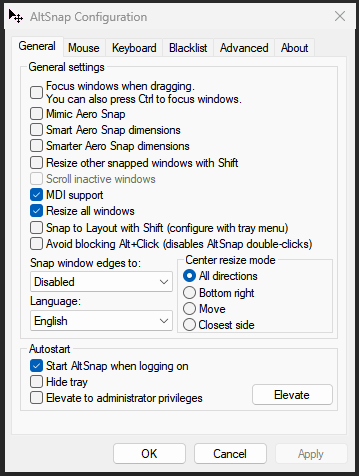
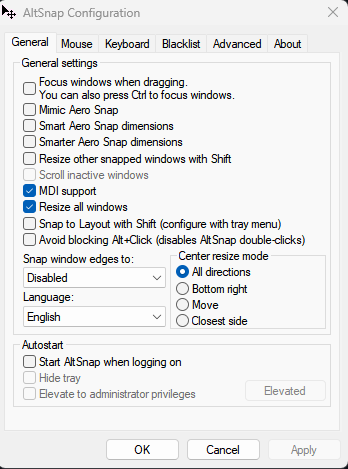
starting to dislike applications either not working because they don't have proper UAC access or required to be elevated to be used... so added pictures showing how to configure task scheduler to launch these applications (specifically flameshot & altsnap) upon user login.. now no more annoying popp

Changed region(s): [[0.0, 0.0, 1.0, 1.0], [0.6897, 0.806, 0.9195, 0.8657]]

diff --git a/flameshot_settings.md b/flameshot_settings.md
@@ -1,0 +1,9 @@
+![General](https://raw.githubusercontent.com/laosmidas/win-glaze-dots/refs/heads/main/ScreenShots_For_Guides/flameshot_screenshots/General.png)
+
+![Shortcuts](https://raw.githubusercontent.com/laosmidas/win-glaze-dots/refs/heads/main/ScreenShots_For_Guides/flameshot_screenshots/Shortcuts.png)
+
+![task_scheduler_#1](https://raw.githubusercontent.com/laosmidas/win-glaze-dots/refs/heads/main/ScreenShots_For_Guides/flameshot_screenshots/task_scheduler_#1.png)
+
+![task_scheduler_#2](https://raw.githubusercontent.com/laosmidas/win-glaze-dots/refs/heads/main/ScreenShots_For_Guides/flameshot_screenshots/task_scheduler_#2.png)
+
+![task_scheduler_#3](https://raw.githubusercontent.com/laosmidas/win-glaze-dots/refs/heads/main/ScreenShots_For_Guides/flameshot_screenshots/task_scheduler_#3.png)

diff --git a/altsnap_settings.md b/altsnap_settings.md
@@ -8,3 +8,9 @@
 
 ![Advanced](https://raw.githubusercontent.com/laosmidas/win-glaze-dots/refs/heads/main/ScreenShots_For_Guides/altsnap_screenshots/Advanced.png)
 
+![task_scheduler_#1](https://raw.githubusercontent.com/laosmidas/win-glaze-dots/refs/heads/main/ScreenShots_For_Guides/altsnap_screenshots/task_scheduler_#1.png)
+
+![task_scheduler_#2](https://raw.githubusercontent.com/laosmidas/win-glaze-dots/refs/heads/main/ScreenShots_For_Guides/altsnap_screenshots/task_scheduler_#2.png)
+
+![task_scheduler_#3](https://raw.githubusercontent.com/laosmidas/win-glaze-dots/refs/heads/main/ScreenShots_For_Guides/altsnap_screenshots/task_scheduler_#3.png)
+

diff --git a/install_software.md b/install_software.md
@@ -152,7 +152,7 @@ scoop install nonportable/equalizer-apo-np
 ---
 
 # applications not avaliable in official repos
-- [DistrAV | aka OBS-NDI](https://github.com/DistroAV/DistroAV)
+- [DistroAV | aka OBS-NDI](https://github.com/DistroAV/DistroAV)
 - [AutoDesk Software](https://manage.autodesk.com/login?t=/products)
 - [tinywhoopgo](https://tinywhoopgo.com/),
 
